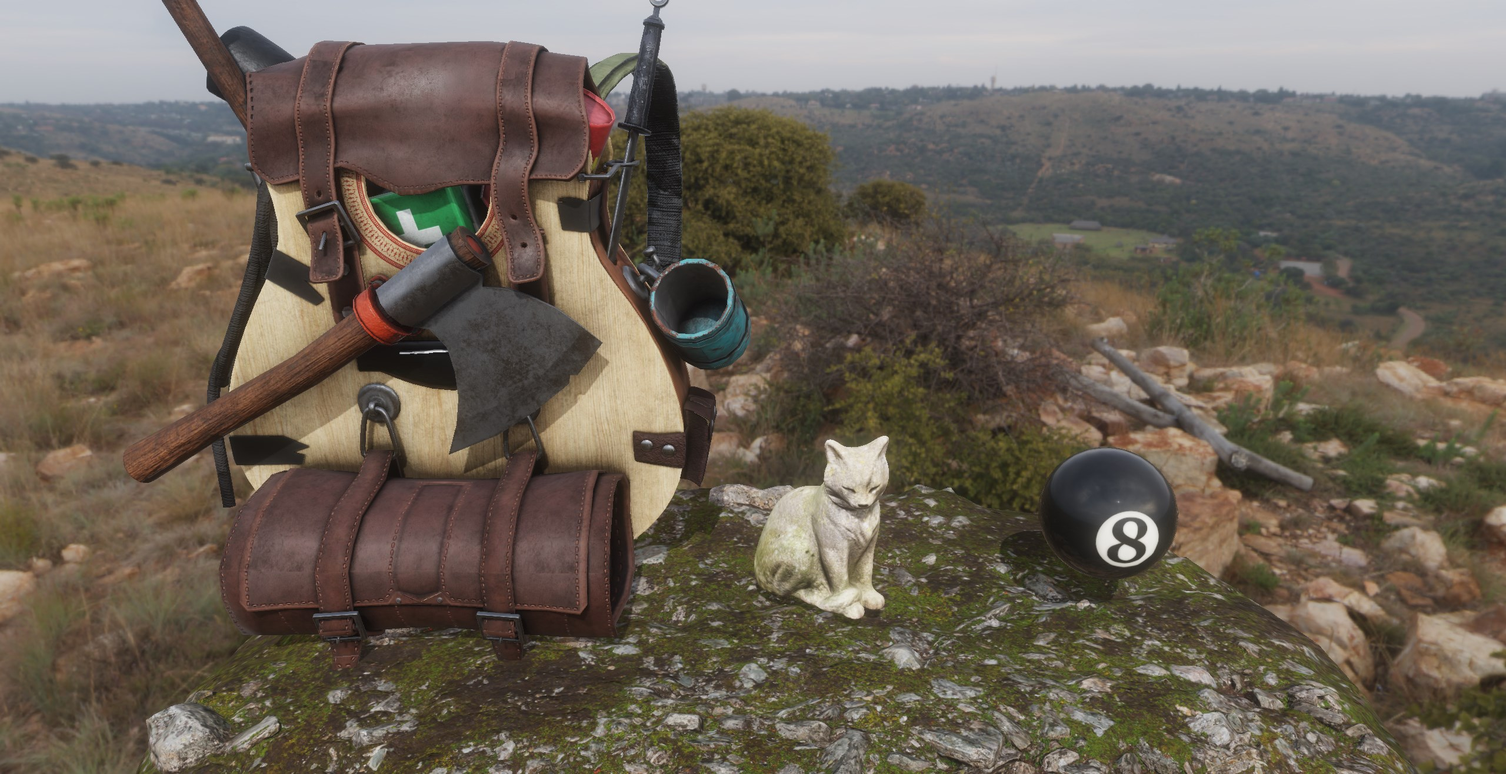
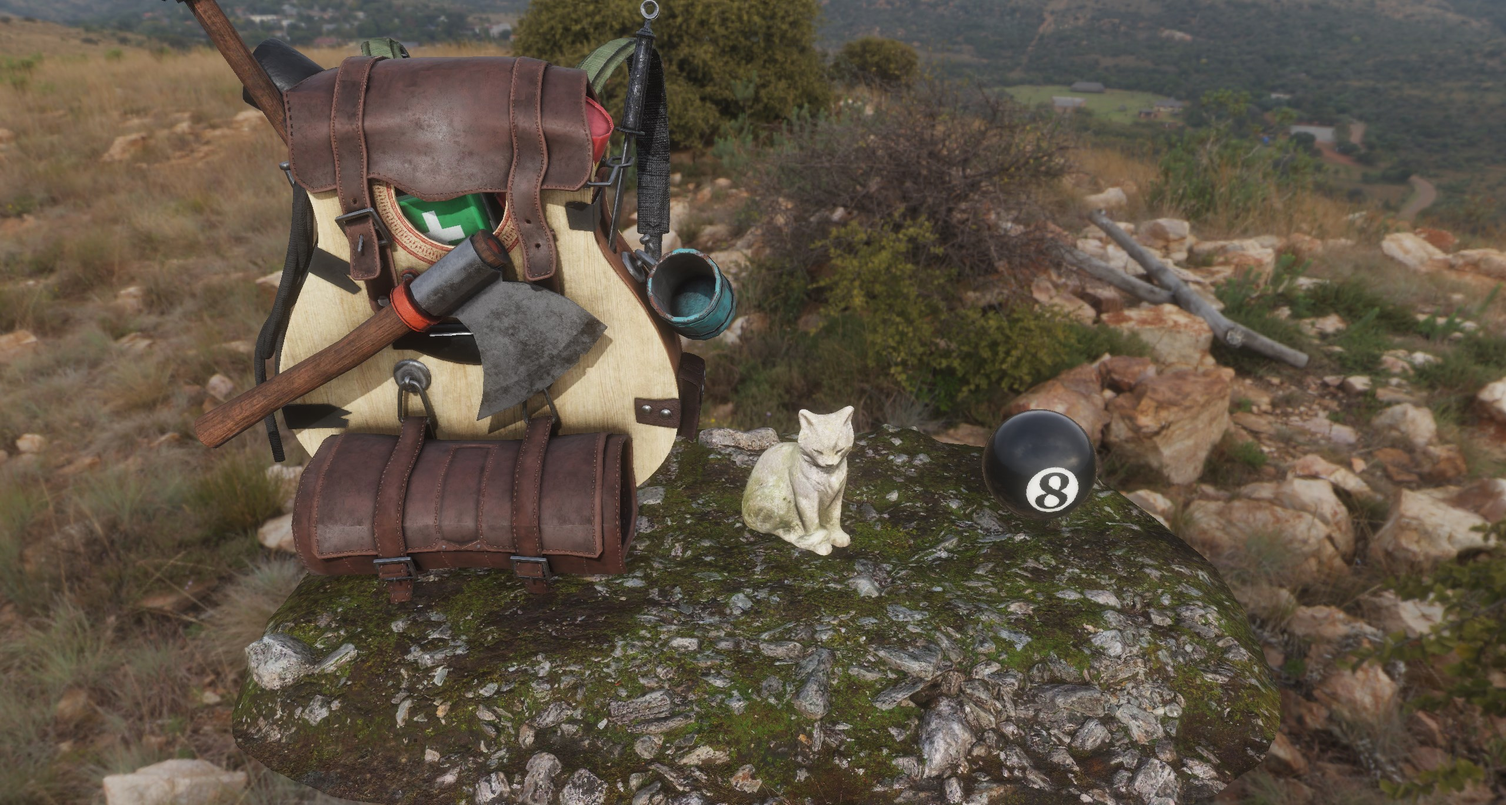
Updated image in README

diff --git a/src/scenes/ssao_scene.cpp b/src/scenes/ssao_scene.cpp
@@ -88,7 +88,7 @@ public:
 
 		glm::vec3 direction{ 0.0f, -1.0f, -1.0f };
 		direction = normalize(direction);
-		const DirectionalLight directionalLight{ direction, glm::vec3{ 10.0f } };
+		const DirectionalLight directionalLight{ direction, glm::vec3{ 5.0f } };
 		m_Renderer->SetDirectionalLight(directionalLight);
 
 		const PointLight p{ glm::vec3{ 5.0f, 0.0f, 4.0f }, glm::vec3{ 20.0f } };

diff --git a/README.md b/README.md
@@ -18,13 +18,14 @@ It has :
 - Model Loading (OBJ and glTF)
 - KTX Textures Loading
 
-You can read more about the implementation details of this project in this blog post : https://blog.stowy.ch/posts/opengl-renderer/
+You can read more about the implementation details of this project in this blog
+post : https://blog.stowy.ch/posts/opengl-renderer/
 
 ## How to build
 
 You need :
 
-- A C++ 23 compiler that supports C++20 modules. I use Clang 18. 
+- A C++ 23 compiler that supports C++20 modules. I use Clang 18.
 - CMake 3.28
 
 Then run :
@@ -46,7 +47,7 @@ cmake --build build -t opengl_scene
 - [glm](https://github.com/g-truc/glm) : linear algebra library
 - [assimp](https://www.assimp.org/) : 3D models importer
 - [SDL2](https://www.libsdl.org/) : handles the window
-- [GLEW](https://glew.sourceforge.net/) : loads the OpenGL functions
+- [glad](https://github.com/premake-libs/glad) : loads the OpenGL functions
 - [libktx](https://github.com/KhronosGroup/KTX-Software) : KTX textures importer
 - [Abseil](https://abseil.io) : mostly to replace `std::unordered_map` by `absl::flat_hash_map`
 - [spdlog](https://github.com/gabime/spdlog) : fast and easy logging
